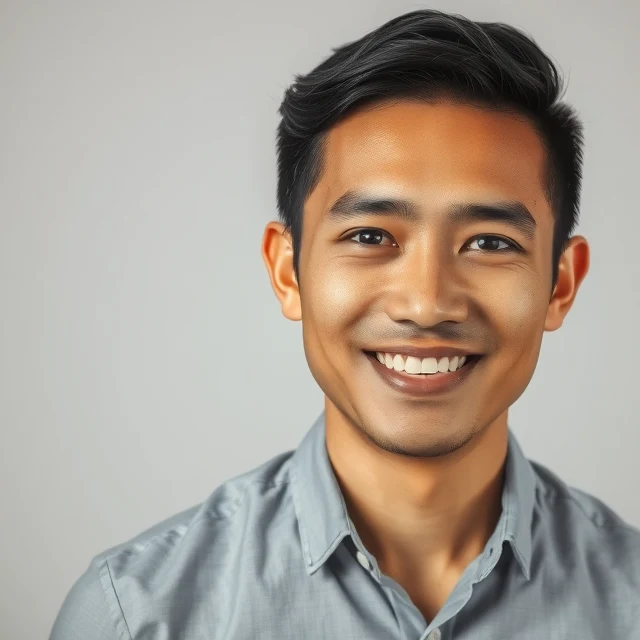
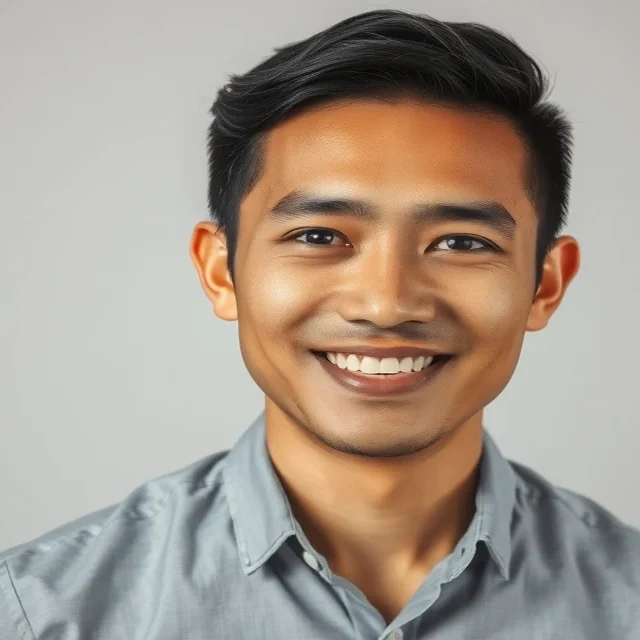
폰 알림(웹 푸시) · 소리 수리 · 뒤로가기 두 칸 튐 수리
폰 알림 — 서버가 보내는 것은 '깨워라' 신호뿐이다. 대화 내용은 서버를 지나가지 않는다
(무슨 말이 왔는지는 앱을 열어야 본다). 서버에 남는 것은 알림 주소 하나뿐이고
그것으로는 누구인지 알 수 없다. 내 정보에서 켜고 끈다.
보내는 기준: **사흘 조용한 사람에게, 하루 한 번까지, 세 번 내리 안 읽으면 그만.**

소리 — 우리 음원이 있으면 그것을 쓰고 없을 때만 폰 목소리를 쓴다.
크롬·사파리에서 첫 호출이 조용히 씹히는 일이 있어 안 시작하면 한 번 다시 부른다.
[다시 듣기]는 언제나 보이게 하고, 베트남어 목소리가 없는 폰은 한 번만 알려 준다.

뒤로가기가 두 칸씩 튀던 것 — 대화방에 들어갈 때 '목록으로' 발자국을 안 남겨서였다.

받아쓴 안내('이렇게 들렸습니다')를 말풍선에서 빼 가로로 폈다 — 왼쪽에 뭉쳐 있으니
선생님이 한 말처럼 보였다.
안 읽음 표시가 하위 메뉴(자유 대화)까지 이어진다.
Quang Huy 사진이 오른쪽으로 치우쳐 있어 가운데로 옮겼다.

diff --git a/app.js b/app.js
@@ -909,6 +909,19 @@ function renderAwards() {
   const ch = el('button', 'ghost sm', '바꾸기');
   ch.onclick = askNick;
   nm.append(ch);
+  if (canPush()) {
+    const nr = el('div', 'planrow');
+    nr.append(el('span', 'pk', '알림'), el('span', 'pv', S.push ? '켜짐' : '꺼짐'));
+    const nb = el('button', 'ghost sm', S.push ? '끄기' : '켜기');
+    nb.onclick = async () => {
+      if (S.push) { await stopPush(); renderAwards(); return; }
+      const err = await askPush();
+      if (err) alert(err); else alert('알림을 켰습니다.\n메시지가 오면 폰에 뜹니다 — 하루 한 번까지만.');
+      renderAwards();
+    };
+    nr.append(nb);
+    b.append(nr);
+  }
   const pc = el('div', 'planrow');
   pc.append(el('span', 'pk', '하루'),
              el('span', 'pv', (S.pace || 1) + '세트' + ((S.pace || 1) > 1 ? ' (일상+직무)' : '')));
@@ -1163,9 +1176,12 @@ function renderMenu(id) {
   const m = MENUS[id];
   const b = $('#subBody');
   b.textContent = '';
+  const unread = Object.values(S.room || {}).reduce((a, r) => a + (r.unread || 0), 0);
   m.items().forEach(([label, fn]) => {
     const btn = el('button', 'bigmenu');
     btn.textContent = label;
+    if (id === 'ai' && label === '자유 대화' && unread)      // 표시가 안쪽까지 이어져야 찾아간다
+      btn.append(el('span', 'mbadge red', String(unread)));
     btn.onclick = () => { dive(() => renderMenu(id)); fn(); };
     b.append(btn);
   });
@@ -3358,7 +3374,8 @@ function viVoices() {
   return vs.filter(v => (v.lang || '').toLowerCase().startsWith('vi'));
 }
 const viVoice = () => viVoices()[0] || null;
-function speakVi(t) {
+function speakVi(t, retry) {
+  if (AIDX[t]) { play(t, false); return; }        // 우리 음원이 있으면 그게 낫다 (원어민 녹음)
   const u = new SpeechSynthesisUtterance(t);
   const vs = viVoices();
   const male = (S.tch || 'f') === 'm';
@@ -3369,9 +3386,12 @@ function speakVi(t) {
   else if (vs.length) { u.voice = vs[0]; u.pitch = male ? .65 : 1.15; }
   if (pick && vs.length === 1) u.pitch = male ? .65 : 1.15;
   u.lang = 'vi-VN'; u.rate = .85;
-  u.onstart = () => $('#tch').classList.add('talk');       // 말하는 동안만 입이 움직인다
+  let started = false;
+  u.onstart = () => { started = true; $('#tch').classList.add('talk'); };
   u.onend = u.onerror = () => $('#tch').classList.remove('talk');
   speechSynthesis.cancel(); speechSynthesis.speak(u);
+  // 크롬·사파리에서 첫 호출이 조용히 씹히는 일이 있다 — 안 시작하면 한 번만 다시
+  if (!retry) setTimeout(() => { if (!started) speakVi(t, true); }, 450);
 }
 
 /* ---------- AI 선생님 캐릭터 ----------
@@ -3420,11 +3440,14 @@ function aiBubble(text) {
   if (m.KR) b.append(el('div', 'ckr', '[' + esc(m.KR) + ']'));
   if (m.KO) b.append(el('div', 'cko', esc(m.KO)));
   if (m.FIX) b.append(el('div', 'cfix', '✎ ' + esc(m.FIX)));
-  if (viVoice()) {
-    speakVi(m.VI);                     // 선생님이 바로 읽어준다 (입도 같이 움직인다)
-    const bt = el('button', 'ghost sm', '다시 듣기');
-    bt.onclick = () => speakVi(m.VI);
-    b.append(bt);
+  speakVi(m.VI);                       // 오면 바로 읽어준다 (입도 같이 움직인다)
+  const bt = el('button', 'ghost sm', '다시 듣기');
+  bt.onclick = () => speakVi(m.VI);
+  b.append(bt);
+  if (!AIDX[m.VI] && !viVoice() && !S.novoice) {   // 한 번만 알린다
+    S.novoice = 1; save();
+    bubble('note wide', '이 폰에는 베트남어 목소리가 없어 소리가 안 날 수 있습니다.\n' +
+      '설정 → 손쉬운 사용 → 음성에서 베트남어를 받으면 들립니다.');
   }
   b.scrollIntoView({ block: 'end', behavior: 'smooth' });
 }
@@ -3621,7 +3644,7 @@ function renderRooms() {
                el('span', 'msglast', esc(last ? last.slice(0, 34) : '대화를 시작해 보세요')));
     btn.append(av, mid);
     if (r && r.unread) btn.append(el('span', 'msgbadge', String(r.unread)));
-    btn.onclick = () => openRoom(rg, tc);
+    btn.onclick = () => { dive(renderRooms); openRoom(rg, tc); };
     s.append(btn);
   });
   show('chat', '메신저', true);
@@ -3757,7 +3780,7 @@ $('#chatMic').onclick = async () => {
         chatGrow();
         inp.focus({ preventScroll: true });
         const w = findItem(heard) || allWords().find(x => x.vi.toLowerCase() === heard.toLowerCase());
-        bubble('ai note', '이렇게 들렸습니다: ' + heard + (w ? ' — ' + w.ko : '') +
+        bubble('note wide', '이렇게 들렸습니다: ' + heard + (w ? ' — ' + w.ko : '') +
           '\n맞으면 보내기, 다르면 고쳐서 보내세요.');
       } catch (e) { bubble('ai err', '⚠ ' + (e.message || '듣기 실패')); }
       URL.revokeObjectURL(url);
@@ -4408,6 +4431,39 @@ function clubHome(j) {
   row.append(others, out);
   b.append(row);
   show('club', '동아리', true);
+}
+
+/* ---------- 폰 알림 ----------
+   서버가 보내는 것은 '깨워라' 신호뿐이다. 대화 내용은 안 보낸다 — 무슨 말이 왔는지는
+   앱을 열어야 보인다. 서버에 남는 것은 알림 주소 하나뿐이고, 그것으로는 누구인지 알 수 없다.
+   아이폰은 **홈 화면에 추가**해야만 알림이 온다(사파리 제약). 안드로이드는 그냥 된다. */
+const VAPID = 'BIXezZvZv-VlkJ49y1sGnEtMfqWkENMJOyZPi1XubrE2J6DeCh2ttTDoimW-EO7PR1U-8qNqSyMetpfZMwZEnTQ';
+const b64bytes = b => { const s = atob(b.replace(/-/g, '+').replace(/_/g, '/'));
+                        return Uint8Array.from(s, c => c.charCodeAt(0)); };
+function canPush() {
+  return 'Notification' in window && 'serviceWorker' in navigator && 'PushManager' in window;
+}
+async function askPush() {
+  if (!canPush()) return '이 브라우저는 알림을 지원하지 않습니다.';
+  const ok = await Notification.requestPermission();
+  if (ok !== 'granted') return '알림이 꺼져 있습니다. 브라우저 설정에서 허용해 주세요.';
+  try {
+    const reg = await navigator.serviceWorker.ready;
+    const sub = await reg.pushManager.subscribe(
+      { userVisibleOnly: true, applicationServerKey: b64bytes(VAPID) });
+    await cCall({ act: 'sub', uid: myUid(), sub: sub.toJSON() });
+    S.push = 1; save();
+    return null;
+  } catch (e) { return '알림을 켜지 못했습니다 — ' + (e.message || ''); }
+}
+async function stopPush() {
+  try {
+    const reg = await navigator.serviceWorker.ready;
+    const sub = await reg.pushManager.getSubscription();
+    if (sub) await sub.unsubscribe();
+    await cCall({ act: 'unsub', uid: myUid() });
+  } catch (e) { }
+  S.push = 0; save();
 }
 
 if ('serviceWorker' in navigator) {

diff --git a/tools/club_worker.js b/tools/club_worker.js
@@ -13,6 +13,9 @@
        (누구나 자기 자리만 안다).
    v5: 운영자용 act:'stats' — **이름 없이 숫자만.** 누가 누구인지는 서버도 모른다.
        운영을 하려면 규모와 흐름은 알아야 하는데, 그걸 알기 위해 개인을 알 필요는 없다.
+   v6: 폰 알림(웹 푸시). 보내는 것은 '깨워라' 신호뿐 — 대화 내용은 서버를 지나가지 않는다.
+       하루 한 번까지만, 사흘 조용한 사람에게만. 읽씹이 사흘 이어지면 그 사람은 쉰다.
+       Settings → Variables and Secrets 에 VAPID_PRIV 와 PUSH_KEY 를 넣어야 돈다.
        재는 것: 몇 명 · 요일별 접속 · **어디까지 갔다 그만두는가(깔때기)** ·
        **얼마나 남아 있는가(코호트)** · **진짜 기억률** · **많은 사람이 틀리는 단어**.
        뒤의 넷이 앱을 어디서 고쳐야 하는지 알려주는 숫자다.
@@ -27,6 +30,33 @@ const cut = (s, n) => String(s == null ? '' : s).slice(0, n);
 const num = (v, hi) => Math.max(0, Math.min(hi, ~~v));
 const week = () => { const d = new Date(); d.setUTCDate(d.getUTCDate() - ((d.getUTCDay() + 6) % 7));
                      return d.toISOString().slice(0, 10); };
+
+/* 웹 푸시 — 내용 없는 신호만 보낸다.
+   VAPID 는 '이 서버가 보낸 게 맞다'는 서명이다. 내용을 안 실으므로 암호화는 필요 없다. */
+const u8 = b64 => Uint8Array.from(atob(b64.replace(/-/g, '+').replace(/_/g, '/')), c => c.charCodeAt(0));
+const b64u = buf => btoa(String.fromCharCode(...new Uint8Array(buf)))
+  .replace(/\+/g, '-').replace(/\//g, '_').replace(/=+$/, '');
+
+async function vapidJwt(aud, privB64) {
+  const key = await crypto.subtle.importKey('pkcs8', u8(privB64),
+    { name: 'ECDSA', namedCurve: 'P-256' }, false, ['sign']);
+  const head = b64u(new TextEncoder().encode(JSON.stringify({ typ: 'JWT', alg: 'ES256' })));
+  const body = b64u(new TextEncoder().encode(JSON.stringify({
+    aud, exp: Math.floor(Date.now() / 1000) + 12 * 3600, sub: 'mailto:chaochao@example.com' })));
+  const sig = await crypto.subtle.sign({ name: 'ECDSA', hash: 'SHA-256' }, key,
+    new TextEncoder().encode(head + '.' + body));
+  return head + '.' + body + '.' + b64u(sig);
+}
+
+async function webpush(endpoint, privB64) {
+  const aud = new URL(endpoint).origin;
+  const jwt = await vapidJwt(aud, privB64);
+  const pub = 'BIXezZvZv-VlkJ49y1sGnEtMfqWkENMJOyZPi1XubrE2J6DeCh2ttTDoimW-EO7PR1U-8qNqSyMetpfZMwZEnTQ';
+  return fetch(endpoint, {
+    method: 'POST',
+    headers: { 'TTL': '86400', 'Authorization': `vapid t=${jwt}, k=${pub}` },
+  });
+}
 
 export default {
   async fetch(req, env) {
@@ -64,6 +94,48 @@ export default {
 
     const GKEY = `r:${week()}`, TTL = { expirationTtl: 60 * 60 * 24 * 30 };
     const FIELDS = ['say', 'ear', 'read', 'spell', 'memo'];
+
+    /* ── 폰 알림 ─────────────────────────────────────────────
+       알림 주소(endpoint)만 들고 있는다. 그것으로는 누구인지 알 수 없다.
+       내용 없는 신호만 보내므로 암호화 짐이 없다 — 무슨 말이 왔는지는 앱을 열어야 본다. */
+    const SUBK = 'push:subs';
+    if (act === 'sub') {
+      const uid = cut(b.uid, 16);
+      if (!uid || !b.sub || !b.sub.endpoint) return send({ error: 'bad sub' });
+      const subs = JSON.parse((await KV.get(SUBK)) || '{}');
+      subs[uid] = { e: cut(b.sub.endpoint, 512), t: 0 };     // t = 마지막으로 보낸 날
+      await KV.put(SUBK, JSON.stringify(subs));
+      return send({ ok: true });
+    }
+    if (act === 'unsub') {
+      const uid = cut(b.uid, 16);
+      const subs = JSON.parse((await KV.get(SUBK)) || '{}');
+      if (subs[uid]) { delete subs[uid]; await KV.put(SUBK, JSON.stringify(subs)); }
+      return send({ ok: true });
+    }
+    if (act === 'push') {                                    // 로봇만 부른다 (PUSH_KEY 필요)
+      if (!env.PUSH_KEY || cut(b.key, 64) !== env.PUSH_KEY) return send({ error: 'no' });
+      if (!env.VAPID_PRIV) return send({ error: 'VAPID_PRIV 없음' });
+      const subs = JSON.parse((await KV.get(SUBK)) || '{}');
+      const g = JSON.parse((await KV.get(GKEY)) || '{}');
+      const today = new Date().toISOString().slice(0, 10);
+      const DAY = 86400000, now = Date.now();
+      let sent = 0, gone = 0, skipped = 0;
+      for (const [uid, v] of Object.entries(subs)) {
+        if (v.t === today) { skipped++; continue; }           // 하루 한 번까지만
+        const me = g[uid];
+        const idle = me && me.l ? Math.floor((now - Date.parse(me.l + 'T00:00:00Z')) / DAY) : 99;
+        if (idle < 3) { skipped++; continue; }                // 사흘은 조용히 둔다
+        if ((v.miss || 0) >= 3) { skipped++; continue; }      // 세 번 내리 안 읽으면 그 사람은 쉰다
+        try {
+          const r = await webpush(v.e, env.VAPID_PRIV);
+          if (r.status === 404 || r.status === 410) { delete subs[uid]; gone++; continue; }
+          v.t = today; v.miss = (v.miss || 0) + 1; sent++;    // 앱을 열면 sub 이 다시 와서 0으로 돌아간다
+        } catch (e) { }
+      }
+      await KV.put(SUBK, JSON.stringify(subs));
+      return send({ sent, gone, skipped, total: Object.keys(subs).length });
+    }
 
     if (act === 'stats') {                                   // 운영 현황 — 숫자만, 이름 없음
       const g = JSON.parse((await KV.get(GKEY)) || '{}');

diff --git a/sw.js b/sw.js
@@ -1,7 +1,7 @@
 /* 오프라인 캐시.
    앱 껍데기와 커리큘럼은 처음 열 때 통째로 받아두고,
    음성은 22MB나 되므로 한 번 재생한 것만 캐시에 남긴다 (데이터 요금 배려). */
-const V = 'vn-bca5cfb0';
+const V = 'vn-1a5e6b56';
 const SHELL = ['./', './index.html', './app.js', './pitch.js', './style.css',
                './manifest.json', './icon.png',
                './data/days.json', './data/audio_index.json'];
@@ -36,4 +36,21 @@ self.addEventListener('fetch', e => {
     if (r.ok) { const cp = r.clone(); caches.open(V).then(c => c.put(e.request, cp)); }
     return r;
   }).catch(() => caches.match(e.request)));
+});
+
+/* ---------- 폰 알림 ----------
+   서버가 '깨워라'만 보낸다(내용 없음). 무슨 말이 왔는지는 앱을 열어야 본다 —
+   대화 내용을 서버에 보내지 않기 위해서다. */
+self.addEventListener('push', e => {
+  e.waitUntil(self.registration.showNotification('짜오짜오', {
+    body: '베트남 친구가 메시지를 보냈어요',
+    icon: './icon.png', badge: './icon-180.png', tag: 'chaochao-msg',
+  }));
+});
+self.addEventListener('notificationclick', e => {
+  e.notification.close();
+  e.waitUntil(clients.matchAll({ type: 'window', includeUncontrolled: true }).then(ws => {
+    for (const w of ws) if (w.url.includes('/chaochao') && 'focus' in w) return w.focus();
+    return clients.openWindow('./index.html');
+  }));
 });

diff --git a/style.css b/style.css
@@ -902,3 +902,11 @@ button.wex{width:100%; background:transparent; color:var(--fg); font:inherit; cu
 .msgbadge{flex:0 0 auto; min-width:22px; height:22px; border-radius:11px; background:#e0384a; color:#fff;
   font-size:12px; font-weight:800; display:grid; place-items:center; padding:0 6px}
 .menu .mtile .mbadge.red{color:#fff; background:#e0384a; border-color:#e0384a}
+
+/* 안내 줄 — 말풍선이 아니라 가로로 편다 (좌측에 뭉치면 선생님 말처럼 보인다) */
+.cb.note.wide{align-self:stretch; max-width:100%; width:100%; text-align:center;
+  background:transparent; border:1px dashed var(--line); color:var(--dim); font-size:13px}
+/* 하위 메뉴의 안 읽음 표시 */
+.bigmenu .mbadge{margin-left:8px; font-size:12px; font-weight:800; border-radius:11px; padding:2px 8px}
+/* 얼굴은 가운데를 보게 (오른쪽으로 치우쳐 잘리던 것) */
+.msgav img, .tchface{object-position:center 22%}

diff --git a/index.html b/index.html
@@ -11,7 +11,7 @@
 <meta name="apple-mobile-web-app-title" content="짜오짜오">
 <meta name="mobile-web-app-capable" content="yes">
 <title>짜오짜오 — 베트남어</title>
-<link rel="stylesheet" href="style.css?v=bca5cfb0">
+<link rel="stylesheet" href="style.css?v=1a5e6b56">
 </head>
 <body>
 
@@ -142,7 +142,7 @@
   </section>
 </main>
 
-<script src="pitch.js?v=bca5cfb0"></script>
-<script src="app.js?v=bca5cfb0"></script>
+<script src="pitch.js?v=1a5e6b56"></script>
+<script src="app.js?v=1a5e6b56"></script>
 </body>
 </html>
